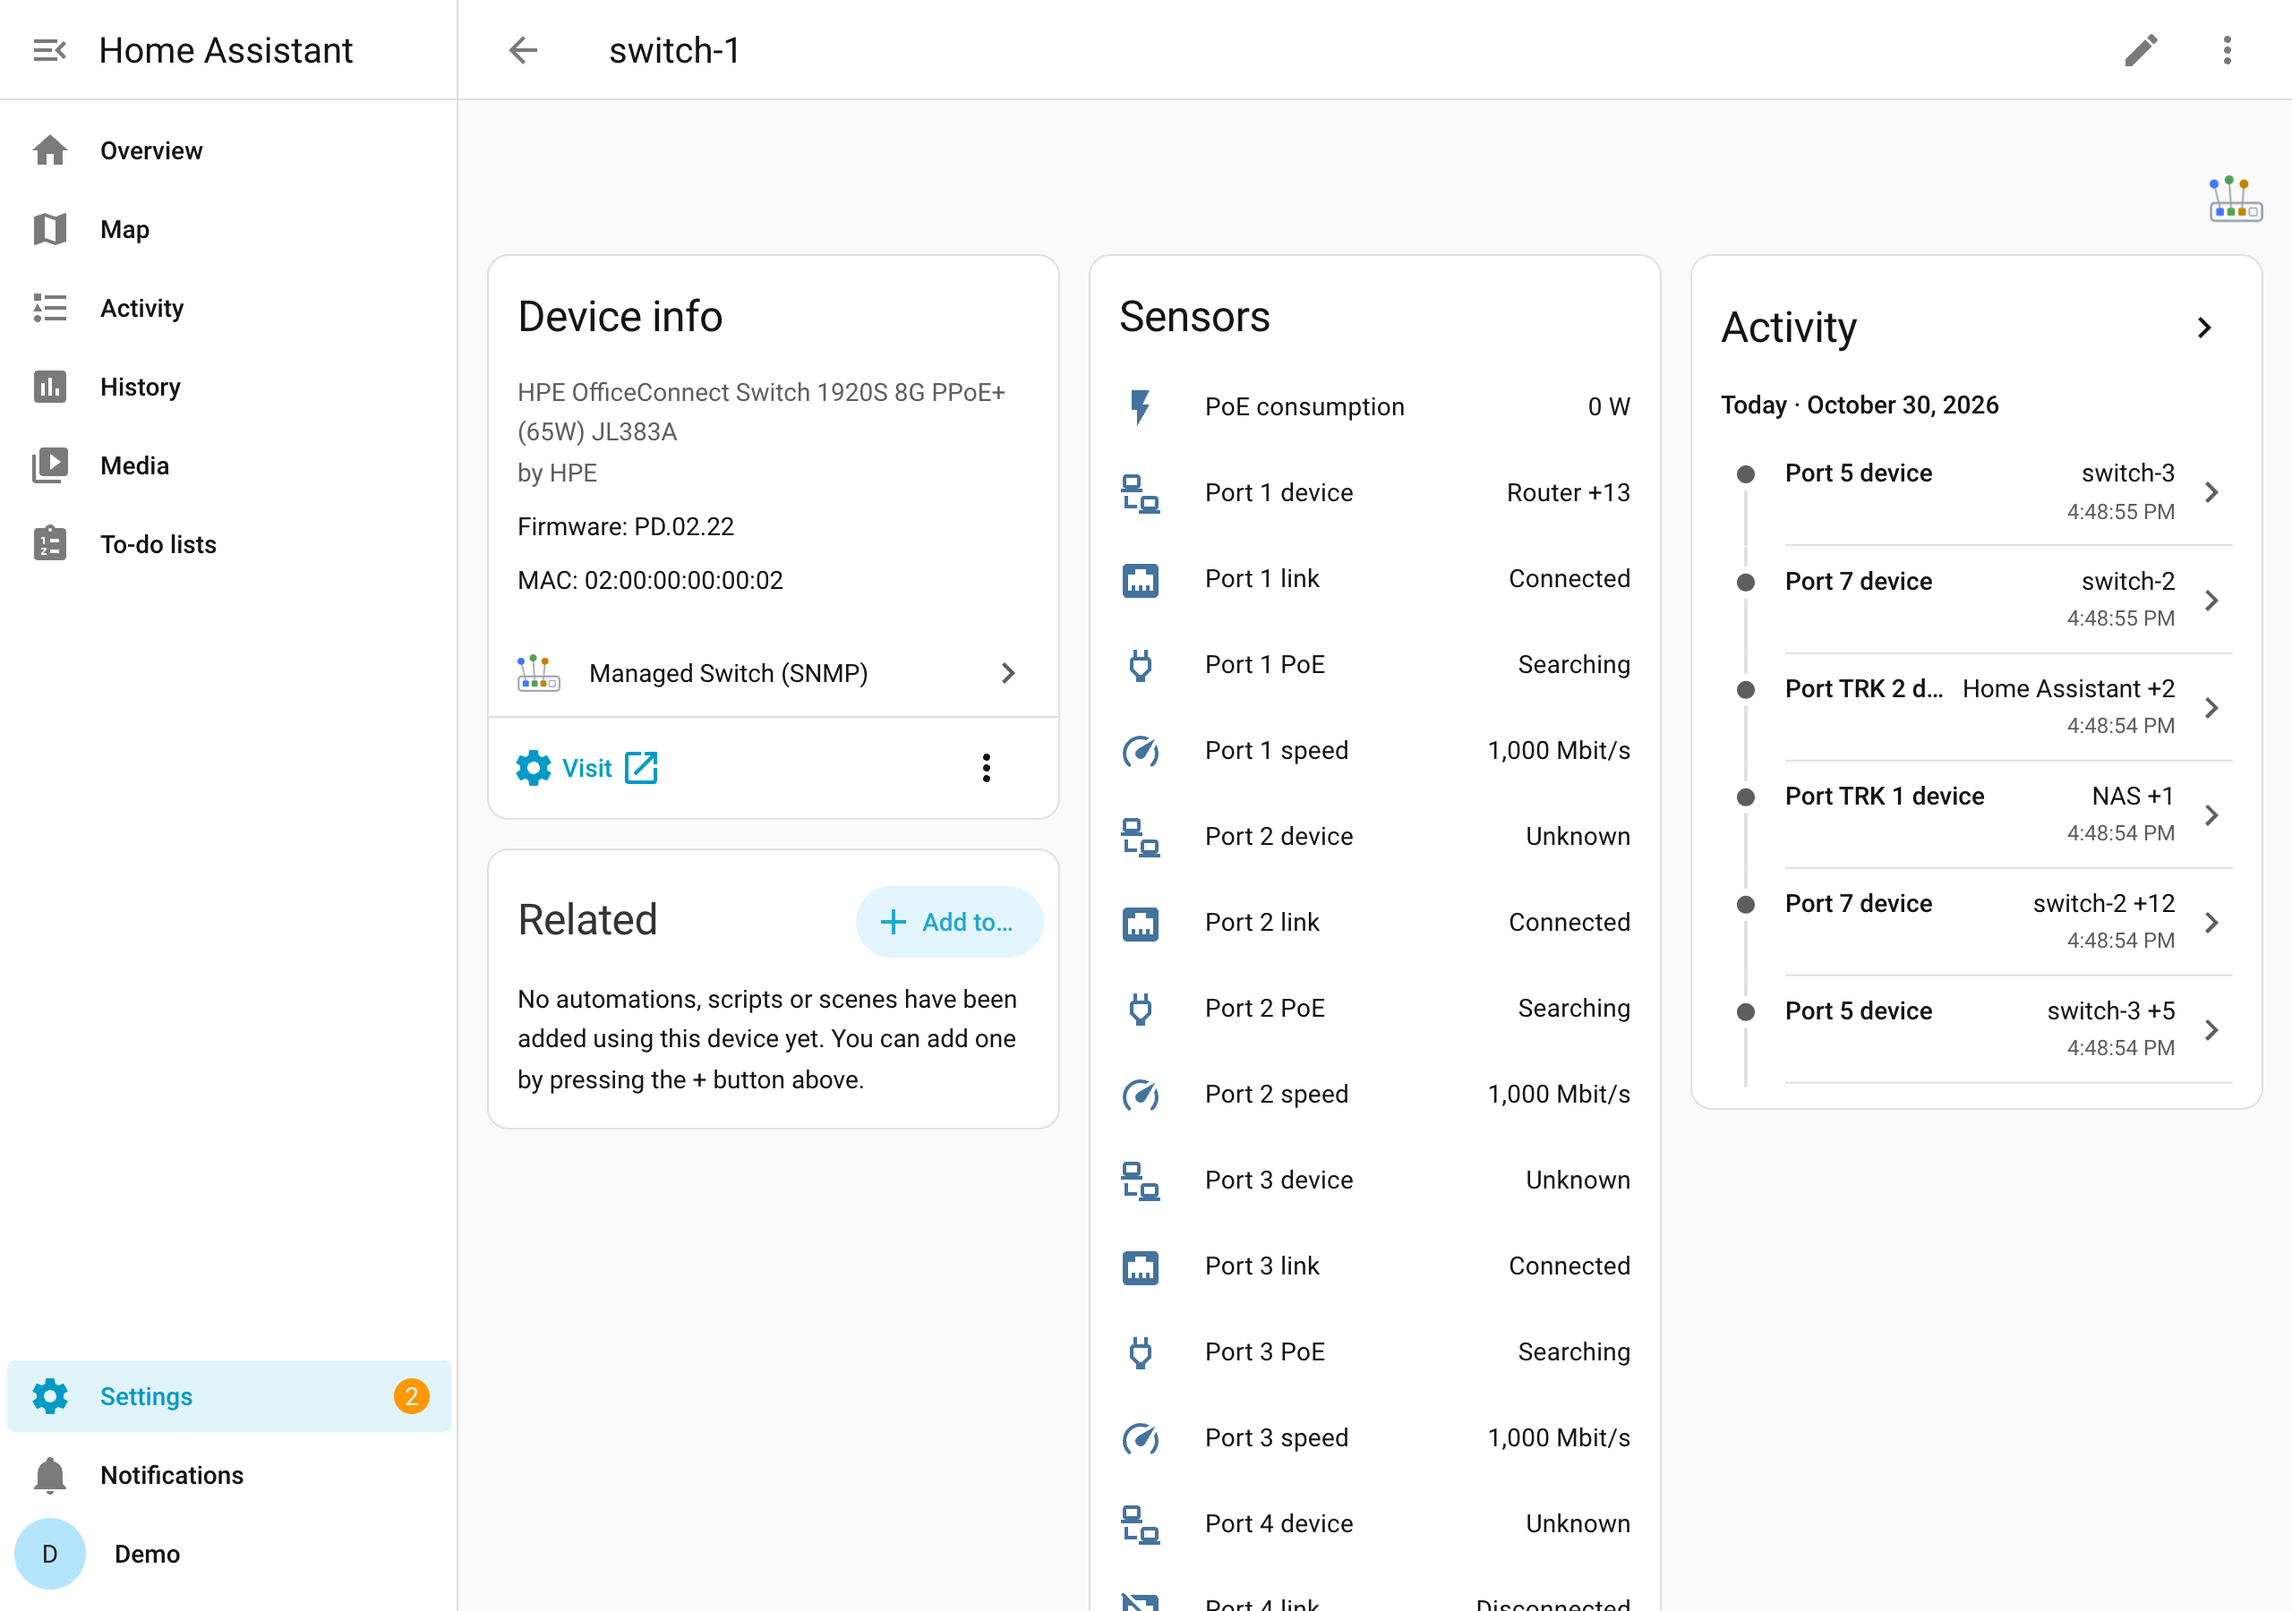
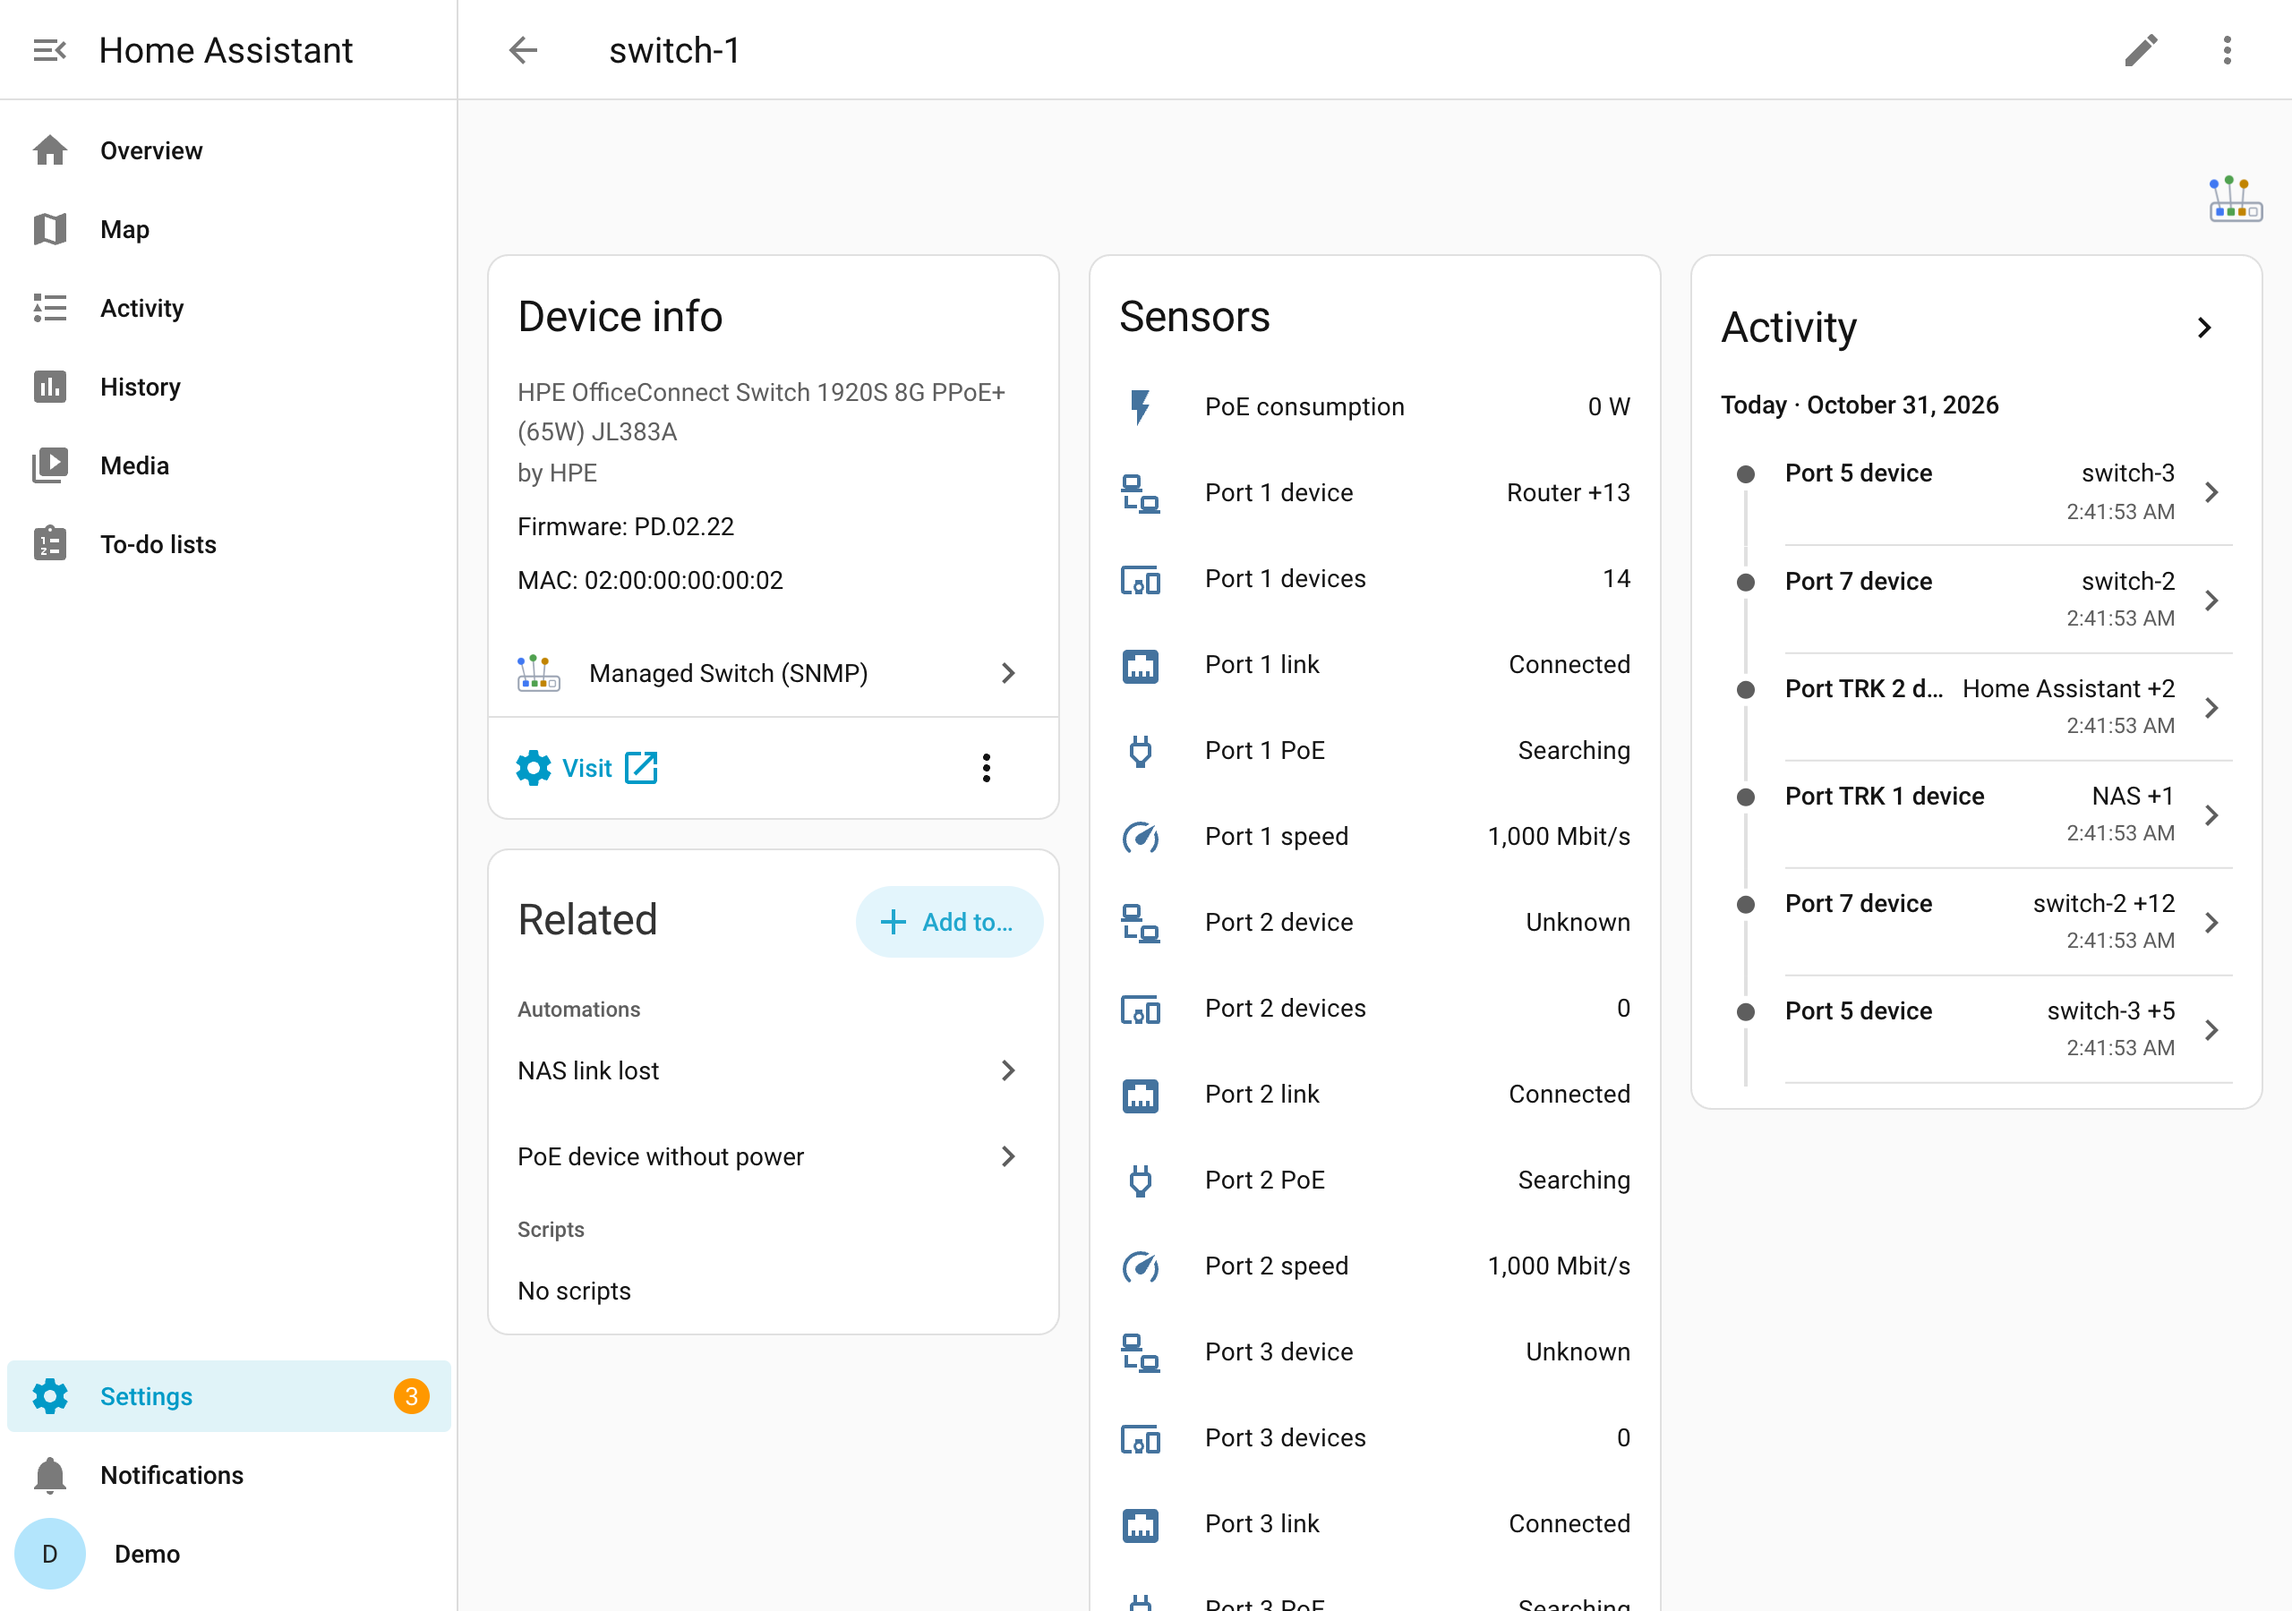
feat: a devices count per port, 0 on an empty port (0.5.0) (#29)
Fixes #28

diff --git a/custom_components/managed_switch/sensor.py b/custom_components/managed_switch/sensor.py
@@ -173,6 +173,7 @@ async def async_setup_entry(
         for interface in new:
             port_entities += [PortSensor(entry, runtime.fast, d, interface) for d in PORT_SENSORS]
             port_entities.append(DeviceSensor(entry, runtime.fast, interface))
+            port_entities.append(DeviceCountSensor(entry, runtime.fast, interface))
         async_add_entities(port_entities)
 
     def is_poe_port(interface: Interface) -> bool:
@@ -244,23 +245,16 @@ class PortSensor(PortEntity[FastCoordinator], SensorEntity):
         )
 
 
-class DeviceSensor(PortEntity[FastCoordinator], SensorEntity):
-    """What is connected to a port: one name, or the first name and how many more."""
+class PortDevicesSensor(PortEntity[FastCoordinator], SensorEntity):
+    """A sensor of the devices on a port, written when they change."""
 
-    # The port's link and speed are here too, so a dashboard needs only this sensor; they have
-    # their own entities with history, so they are not recorded twice.
-    _unrecorded_attributes = frozenset({"devices", "port", "if_index", "link", "speed"})
+    description: SensorEntityDescription
 
     def __init__(
         self, entry: SwitchConfigEntry, coordinator: FastCoordinator, interface: Interface
     ) -> None:
         """Describe the sensor for its port."""
-        super().__init__(
-            entry,
-            coordinator,
-            SensorEntityDescription(key="device", translation_key="device"),
-            interface,
-        )
+        super().__init__(entry, coordinator, self.description, interface)
         self._devices: list[Connected] = []
         """The devices on the port, worked out once per write (registry lookups per MAC)."""
 
@@ -286,6 +280,16 @@ class DeviceSensor(PortEntity[FastCoordinator], SensorEntity):
             self._devices = devices
             self.async_write_ha_state()
 
+
+class DeviceSensor(PortDevicesSensor):
+    """What is connected to a port: one name, or the first name and how many more."""
+
+    # The port's link and speed are here too, so a dashboard needs only this sensor; they have
+    # their own entities with history, so they are not recorded twice.
+    _unrecorded_attributes = frozenset({"devices", "port", "if_index", "link", "speed"})
+
+    description = SensorEntityDescription(key="device", translation_key="device")
+
     @property
     def native_value(self) -> str | None:
         """The first device's name, with the number of others."""
@@ -305,6 +309,19 @@ class DeviceSensor(PortEntity[FastCoordinator], SensorEntity):
             "link": interface.oper_status is OperStatus.UP,
             "speed": interface.high_speed if interface.oper_status is OperStatus.UP else 0,
         }
+
+
+class DeviceCountSensor(PortDevicesSensor):
+    """How many devices are on a port: 0 on an empty port, where the device sensor is unknown."""
+
+    description = SensorEntityDescription(
+        key="devices", translation_key="devices", state_class=SensorStateClass.MEASUREMENT
+    )
+
+    @property
+    def native_value(self) -> int:
+        """The number of devices on the port."""
+        return len(self._devices)
 
 
 class PoeSensor(PortEntity[SlowCoordinator], SensorEntity):

diff --git a/tests/test_sensor.py b/tests/test_sensor.py
@@ -143,6 +143,7 @@ async def test_device_sensor_writes_only_when_its_devices_change(hass: HomeAssis
     after = state(hass, sensor)
     assert after.last_reported != before.last_reported
     assert after.attributes["device_count"] == before.attributes["device_count"] - 1
+    assert state(hass, f"{sensor}s").state == str(after.attributes["device_count"])
 
 
 async def test_temperatures_of_a_1930(hass: HomeAssistant) -> None:
@@ -202,3 +203,23 @@ async def test_temperature_without_a_name(hass: HomeAssistant) -> None:
     await entry.runtime_data.slow.async_refresh()
     await hass.async_block_till_done()
     assert state(hass, "sensor.switch_3_temperature_68420483").state == "41.0"
+
+
+async def test_device_count_is_0_on_an_empty_port(hass: HomeAssistant) -> None:
+    entry = make_entry("192.0.2.1")
+    entry.add_to_hass(hass)
+    assert await hass.config_entries.async_setup(entry.entry_id)
+    await hass.async_block_till_done()
+    names = {
+        s: state(hass, s)
+        for s in hass.states.async_entity_ids("sensor")
+        if s.startswith("sensor.switch_1_port_") and s.endswith("_device")
+    }
+    for sensor, name in names.items():
+        count = state(hass, f"{sensor}s")
+        assert count.state == str(name.attributes["device_count"])
+        assert count.attributes.get("state_class") == "measurement"
+        assert "devices" not in count.attributes
+    empty = [s for s, name in names.items() if name.state == "unknown"]
+    assert empty  # the recording has ports without a device
+    assert {state(hass, f"{s}s").state for s in empty} == {"0"}

diff --git a/docs/entities.md b/docs/entities.md
@@ -25,6 +25,7 @@ the language Home Assistant used when they were created).
 | Port … link | on while the port has a link |
 | Port … speed | link speed in Mbit/s, 0 without link |
 | Port … device | what is connected: see below |
+| Port … devices | how many devices are on the port, 0 on an empty port (where *Port … device* is `unknown`) |
 | Port … PoE | PoE state of the port: `disabled`, `searching`, `delivering_power`, `fault`, `test`, `other_fault`; attributes `enabled` and `power_class` (PoE ports only) |
 | Port … received, sent | traffic in bit/s over the last polling interval (off by default; needs 64-bit counters) |
 | Port … errors | received and sent errors since the restart (off by default) |

diff --git a/README.md b/README.md
@@ -31,7 +31,8 @@ only: it never changes a setting.
   temperatures where the switch reports them.
 - Per port (and per trunk): link, speed, the connected device (an LLDP neighbour such as
   another switch, or the devices learned on the port, named from Home Assistant's device
-  registry), PoE status, and on request received and sent traffic and errors.
+  registry) and how many devices are on it, PoE status, and on request received and sent
+  traffic and errors.
 - One events entity per switch with a ready blueprint for notifications.
 - SNMPv3 (recommended) or v2c, standard MIBs, plus the HPE 1930's own sensor table:
   vendor-neutral. Tested on HPE OfficeConnect 1920S and HPE Instant On 1930; other managed

diff --git a/CHANGELOG.md b/CHANGELOG.md
@@ -6,6 +6,14 @@ All notable changes to this project are documented here. The format follows
 
 ## [Unreleased]
 
+## [0.5.0] - 2026-10-31
+
+### Added
+
+- A *Port … devices* sensor per port: how many devices are on the port, 0 on an empty port.
+  The *Port … device* sensor stays `unknown` there, since no device has a name; health checks
+  that count long-`unknown` entities can leave it out and use the count instead.
+
 ## [0.4.0] - 2026-10-30
 
 ### Added
